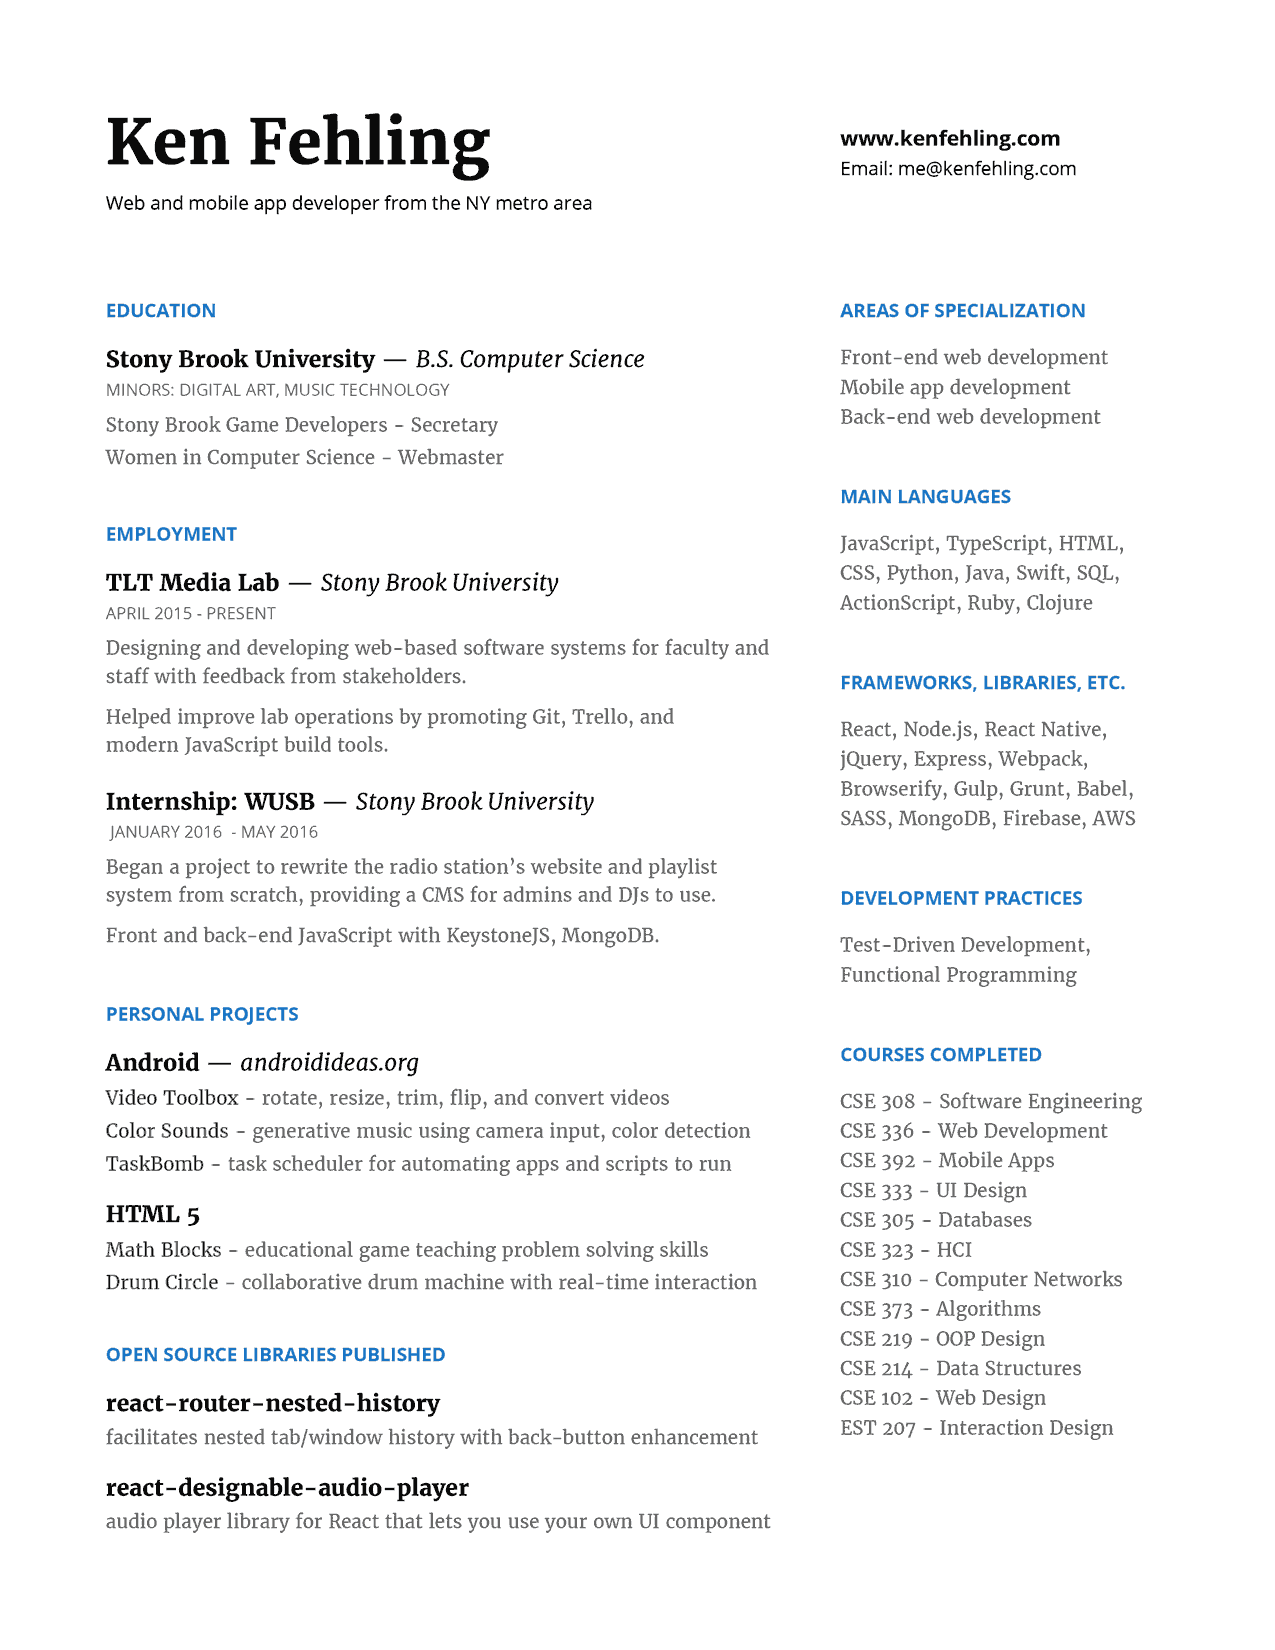
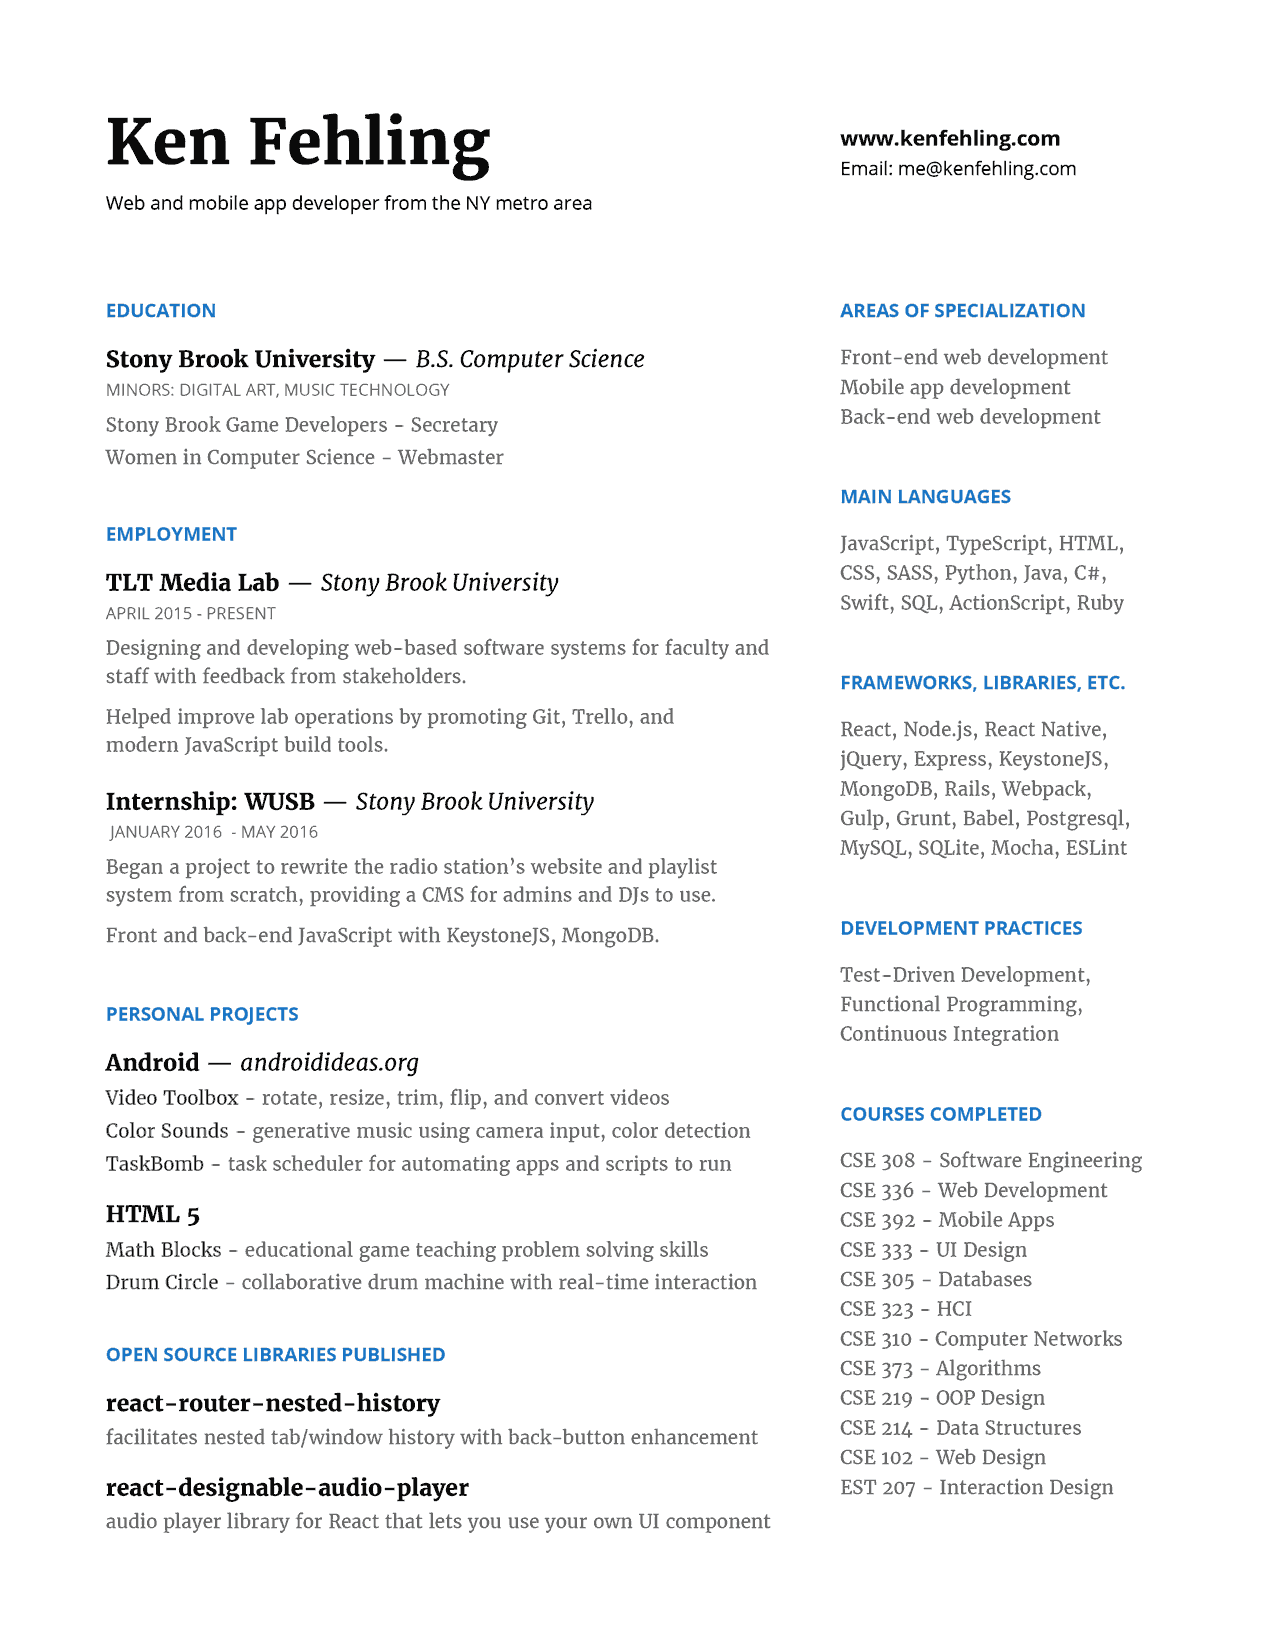
Updated resume

Changed region(s): [[0.6424, 0.4327, 0.8871, 0.9273], [0.6729, 0.34, 0.8871, 0.3709]]

diff --git a/src/constants/tools.js b/src/constants/tools.js
@@ -313,18 +313,6 @@ export const tools = [{
     especially one as influential as Rails.
   </div>
 }, {
-  name: 'Bootstrap',
-  stars: 3.5,
-  categories: [LIBRARIES, WEB],
-  description: <div>
-    I have used Bootstrap on a few projects and find it good when something
-    needs to be done simply and quickly, although for any large project I
-    feel more like it gets in my way.
-    <br /><br />
-    I used Bootstrap for the front-end of
-    the {externalLink('HackHealth', 'http://kenfehling.github.io/hack-health-2016-website')} website.
-  </div>
-}, {
   name: 'Keystone',
   stars: 3.5,
   categories: [LIBRARIES, WEB],
@@ -337,6 +325,18 @@ export const tools = [{
     Unfortunately it hasn't been deployed yet to replace the existing website.
     <br /><br />
     {externalLink('Project GitHub repository', 'https://github.com/kingofirony/WUSB-Website')}
+  </div>
+}, {
+  name: 'Bootstrap',
+  stars: 3.5,
+  categories: [LIBRARIES, WEB],
+  description: <div>
+    I have used Bootstrap on a few projects and find it good when something
+    needs to be done simply and quickly, although for any large project I
+    feel more like it gets in my way.
+    <br /><br />
+    I used Bootstrap for the front-end of
+    the {externalLink('HackHealth', 'http://kenfehling.github.io/hack-health-2016-website')} website.
   </div>
 }, {
   name: 'Jest',
@@ -378,7 +378,7 @@ export const tools = [{
     however Ruby has some interesting features like blocks.
   </div>
 }, {
-  name: 'TravisCI',
+  name: 'Travis CI',
   stars: 3.5,
   categories: [DEVOPS],
   description: <div>
@@ -524,18 +524,6 @@ export const tools = [{
     especially [[Android]].
   </div>
 }, {
-  name: 'Firebase',
-  stars: 3,
-  categories: [DATABASES],
-  description: <div>
-    I used Firebase on one project for the TLT Media Lab because the client
-    wanted it. It was interesting, but I felt sort of boxed in by it.
-    In retrospect, I think it would have been a much similar and more robust
-    to solution to use a traditional back-end on that project,
-    but I could see how solutions like Firebase
-    might have a use on simpler projects.
-  </div>
-}, {
   name: 'Logic',
   iconType: 'png',
   stars: 3,
@@ -567,22 +555,6 @@ export const tools = [{
     after [[Logic]]. One great feature is its integration with Max/MSP.
   </div>
 }, {
-  name: 'Clojure',
-  stars: 2.5,
-  categories: [LANGUAGES],
-  description: <div>
-    I had previously learned Scheme over a summer vacation using the
-    old {externalLink("SICP lectures", "http://youtube.com/watch?v=2Op3QLzMgSY")} from MIT.
-    I was smitten by the power yet simplicity of it all.
-    I later learned some Clojure and ClojureScript,
-    which also being Lisp variants are similar to Scheme.
-    <br /><br />
-    Although I don't use any of these languages in my daily work,
-    I'm glad I learned them because they completely changed the way I approach writing programs,
-    even in more imperative languages
-    like [[JavaScript]] and [[Python]].
-  </div>
-}, {
   name: 'Swift',
   stars: 2.5,
   categories: [LANGUAGES, MOBILE],
@@ -606,6 +578,18 @@ export const tools = [{
     particularly with [[Guice]], and the observer pattern.
   </div>
 }, {
+  name: 'Firebase',
+  stars: 2.5,
+  categories: [DATABASES],
+  description: <div>
+    I used Firebase on one project for the TLT Media Lab because the client
+    wanted it. It was interesting, but I felt sort of boxed in by it.
+    In retrospect, I think it would have been a much similar and more robust
+    to solution to use a traditional back-end on that project,
+    but I could see how solutions like Firebase
+    might have a use on simpler projects.
+  </div>
+}, {
   name: 'Flex',
   fullName: 'Adobe Flex',
   stars: 2.5,
@@ -614,6 +598,22 @@ export const tools = [{
     I learned [[ActionScript]] and Flex to rewrite one of my [[Android]]
     apps, {externalLink('Color Sounds', 'http://androidideas.org/colorsounds')}.
     Flex was used for the main menu interface.
+  </div>
+}, {
+  name: 'Clojure',
+  stars: 2,
+  categories: [LANGUAGES],
+  description: <div>
+    I had previously learned Scheme over a summer vacation using the
+    old {externalLink("SICP lectures", "http://youtube.com/watch?v=2Op3QLzMgSY")} from MIT.
+    I was smitten by the power yet simplicity of it all.
+    I later learned some Clojure and ClojureScript,
+    which also being Lisp variants are similar to Scheme.
+    <br /><br />
+    Although I don't use any of these languages in my daily work,
+    I'm glad I learned them because they completely changed the way I approach writing programs,
+    even in more imperative languages
+    like [[JavaScript]] and [[Python]].
   </div>
 }, {
   name: 'Unity',
